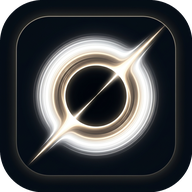
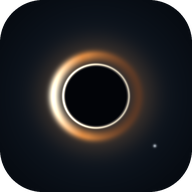
图标重做：史瓦西阴影 + 自适应图标 + 单色主题图标
- 环带改成按半径的高斯剖面逐像素计算；描边圆弧读成金属垫圈，等离子体必须内外都软
- 亮度按方位角不对称（迎面白热、背面余烬暗淡）——均匀的环只是甜甜圈
- 补 mipmap-anydpi-v26 自适应图标（背景渐变 + 前层 + monochrome），
  没有它 Android 8+ 会把旧 PNG 缩进一个白圆里
- 新旧五档 PNG、圆形版、网页 192/512 同一套程序生成（tools/icon.py）
- versionCode 4 / versionName 1.1.4，Release 改发 v1.1.4-focus-apk

diff --git a/tools/icon.py b/tools/icon.py
@@ -1,0 +1,155 @@
+"""Generate the Starfield Focus icon set.
+
+The icon is the artwork's heaviest object: a Schwarzschild shadow with a hot
+accretion ring. Two things had to be right for it to survive a launcher:
+
+  * the ring is a *radial brightness profile*, not a stroked circle. An arc with
+    a stroke width reads as a metal washer; plasma has a soft inner and outer
+    edge, so the ring is computed per pixel as a gaussian in radius.
+  * the brightness is asymmetric. The approaching side is white-hot, the
+    receding side is dying ember. A uniform ring is a donut; the asymmetry is
+    what makes it a hole.
+
+Outputs: legacy PNGs (squircle + round), adaptive foreground + monochrome,
+and the two web icons.
+
+  python -I icon.py <repo-root>
+"""
+import sys, os
+import numpy as np
+from PIL import Image, ImageDraw
+
+ROOT = sys.argv[1] if len(sys.argv) > 1 else "."
+RES = os.path.join(ROOT, "android", "app", "src", "main", "res")
+
+U = 108.0
+BG_IN = np.array([26, 40, 56], float)
+BG_OUT = np.array([4, 7, 12], float)
+EMBER = np.array([120, 55, 24], float)
+WARM = np.array([255, 158, 74], float)
+HOT = np.array([255, 246, 220], float)
+DISC = np.array([2, 4, 8], float)
+STAR = np.array([223, 233, 245], float)
+
+
+def render(size, with_bg=True, scale=1.0):
+    """Float RGB + alpha, size*size, computed in one pass."""
+    S = size * 4
+    yy, xx = np.mgrid[0:S, 0:S].astype(np.float32)
+    u = U / scale
+    k = S / u
+    cx = cy = S / 2.0
+    # a touch of vertical squash: face-on is a diagram, slightly tilted is a disc
+    X = (xx - cx) / k
+    Y = (yy - cy) / (k * 0.965)
+    R = np.sqrt(X * X + Y * Y)
+    TH = np.arctan2(-Y, X)
+
+    # ---------- background ----------
+    if with_bg:
+        rad = np.sqrt((xx - cx) ** 2 + (yy - cy) ** 2) / (S * 0.72)
+        t = np.clip(rad, 0, 1) ** 0.75
+        bg = BG_IN[None, None, :] + (BG_OUT - BG_IN)[None, None, :] * t[:, :, None]
+        # the ring spills warm light onto the paper behind it
+        spill = np.exp(-((R - 24.0) / 11.0) ** 2) * 0.16
+        bg = bg + (WARM - bg) * spill[:, :, None]
+    else:
+        bg = np.zeros((S, S, 3), float)
+
+    # ---------- the ring ----------
+    RING = 24.2
+    sigma_out = 2.5
+    sigma_in = 3.6                      # softer towards the shadow
+    side = np.where(R > RING, sigma_out, sigma_in)
+    prof = np.exp(-((R - RING) / side) ** 2)
+
+    # beaming: hot on the approaching (left) side
+    beam = 0.5 + 0.5 * np.cos(TH - np.pi)
+    beam = beam ** 1.45
+    prof = prof * (0.40 + 0.78 * beam)
+
+    col_ring = EMBER[None, None, :] + (WARM - EMBER)[None, None, :] * np.clip(beam * 1.9 + 0.12, 0, 1)[:, :, None]
+    mx = np.clip((beam - 0.55) / 0.45, 0, 1)[:, :, None]
+    col_ring = col_ring + (HOT - col_ring) * mx
+
+    # ---------- photon ring ----------
+    RPH = 18.5
+    photon = np.exp(-((R - RPH) / 0.62) ** 2) * (0.55 + 0.45 * beam)
+
+    # ---------- shadow ----------
+    shadow = np.clip((17.6 - R) / 0.7, 0, 1)
+
+    # ---------- composite, screen order ----------
+    lit = np.clip(prof + photon * 1.35, 0, 1.6)
+    col_hot = col_ring * prof[:, :, None] + HOT[None, None, :] * (photon * 1.35)[:, :, None]
+    denom = np.maximum(lit, 1e-4)
+    col_hot = col_hot / denom[:, :, None]
+
+    out = bg + (col_hot - bg) * np.clip(lit, 0, 1)[:, :, None]
+    out = out + HOT[None, None, :] * np.clip(lit - 1.0, 0, 0.6)[:, :, None]  # over-bright core
+    out = out + (DISC - out) * shadow[:, :, None]
+
+    # ---------- stars ----------
+    for (sx, sy, sr, sa) in ((33.0, 29.0, 0.95, 0.75), (75.0, 26.0, 0.8, 0.6),
+                             (84.5, 63.0, 0.9, 0.65), (24.0, 71.0, 0.75, 0.55),
+                             (66.5, 88.5, 0.7, 0.45)):
+        d2 = ((X - sx) ** 2 + (Y - sy) ** 2) / (sr * sr)
+        g = np.exp(-d2) * sa
+        out = out + (STAR[None, None, :] - out) * g[:, :, None]
+
+    img = Image.fromarray(np.clip(out, 0, 255).astype(np.uint8), "RGB").convert("RGBA")
+    return img
+
+
+def squircle_mask(S, mode="squircle"):
+    m = Image.new("L", (S, S), 0)
+    d = ImageDraw.Draw(m)
+    if mode == "circle":
+        d.ellipse([0, 0, S - 1, S - 1], fill=255)
+    else:
+        d.rounded_rectangle([0, 0, S - 1, S - 1], radius=int(S * 0.2237), fill=255)
+    return m
+
+
+def icon(size, mode="squircle"):
+    S = size * 4
+    img = render(size, with_bg=True)
+    out = Image.new("RGBA", (S, S), (0, 0, 0, 0))
+    out.paste(img, (0, 0), squircle_mask(S, mode))
+    return out.resize((size, size), Image.LANCZOS)
+
+
+def foreground(size):
+    S = size * 4
+    return render(size, with_bg=False).resize((size, size), Image.LANCZOS)
+
+
+def mono(size):
+    S = size * 4
+    yy, xx = np.mgrid[0:S, 0:S].astype(np.float32)
+    k = S / U
+    X = (xx - S / 2.0) / k
+    Y = (yy - S / 2.0) / (k * 0.965)
+    R = np.sqrt(X * X + Y * Y)
+    a = (np.clip((24.6 - R) / 1.6, 0, 1) * np.clip((R - 20.4) / 1.4, 0, 1) * 255
+         + np.clip((17.0 - R) / 1.0, 0, 1) * 255)
+    a = np.clip(a, 0, 255).astype(np.uint8)
+    img = Image.new("RGBA", (S, S), (255, 255, 255, 0))
+    img.putalpha(Image.fromarray(a, "L"))
+    return img.resize((size, size), Image.LANCZOS)
+
+
+DENS = {"mdpi": 48, "hdpi": 72, "xhdpi": 96, "xxhdpi": 144, "xxxhdpi": 192}
+FORE = {"mdpi": 108, "hdpi": 162, "xhdpi": 216, "xxhdpi": 324, "xxxhdpi": 432}
+
+for dpi, px in DENS.items():
+    folder = os.path.join(RES, "mipmap-" + dpi)
+    os.makedirs(folder, exist_ok=True)
+    icon(px, "squircle").save(os.path.join(folder, "ic_launcher.png"))
+    icon(px, "circle").save(os.path.join(folder, "ic_launcher_round.png"))
+    foreground(FORE[dpi]).save(os.path.join(folder, "ic_launcher_foreground.png"))
+    mono(FORE[dpi]).save(os.path.join(folder, "ic_launcher_mono.png"))
+
+icon(192).save(os.path.join(ROOT, "icon-192.png"))
+icon(512).save(os.path.join(ROOT, "icon-512.png"))
+print("icons written to", RES)
